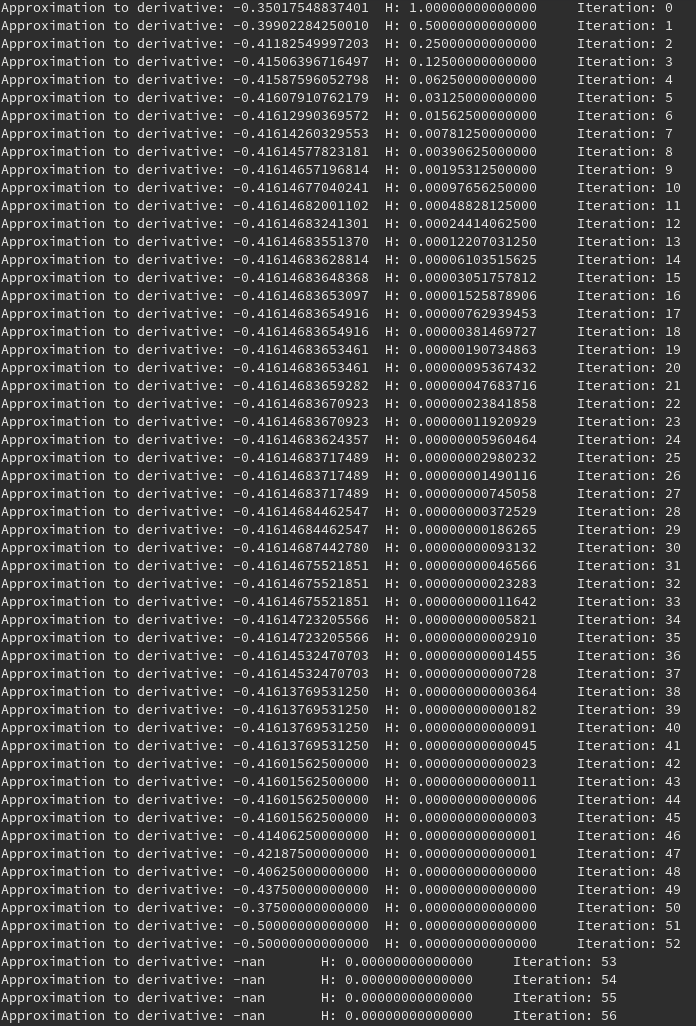
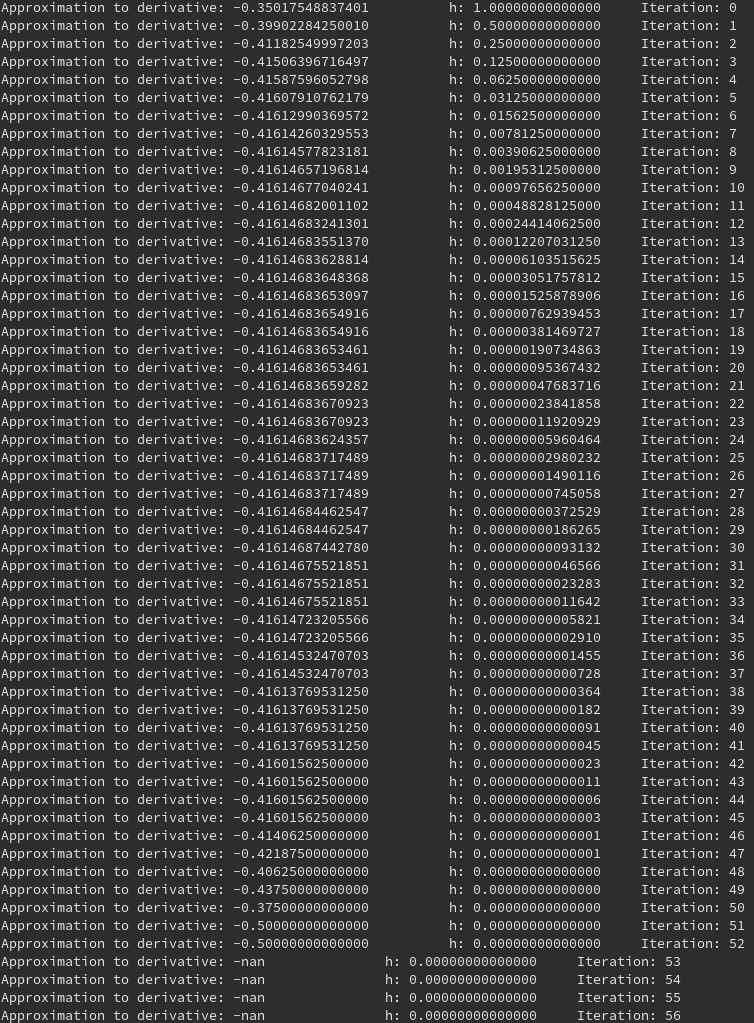
Made changes

Changed region(s): [[0.0, 0.0, 0.9957, 1.0]]

diff --git a/tasks_source/task_sheet_1/task_6/task6.c b/tasks_source/task_sheet_1/task_6/task6.c
@@ -24,7 +24,7 @@ int main()
 	double h = 1;
 	for(int i=0; i<100; i++)
 	{
-		printf("Approximation to derivative: %.14f\tH: %.14f\tIteration: %d\n", calculate_derivative(2, h), h, i);
+		printf("Approximation to derivative: %.14f\t\th: %.14f\tIteration: %d\n", calculate_derivative(2, h), h, i);
 		h = h / 2;
 	}
 

diff --git a/software_manual/software_manual.md b/software_manual/software_manual.md
@@ -19,3 +19,5 @@ As expected, the output gets closer and closer to the real value of the derivati
 A screenshot of the machine output has been included below.
 
 ![Console Output Picture](../images/s1_t6_cmdoutput.png)
+
+As we can see, around the first few iterations, the approximation to the derivative is off by quite a bit. The approximation becomes best around 20 iterations, and then slowly starts to diverge away until eventually becoming unusable around the 53rd iteration. The 21st iteration is where the machine precision starts to affect the output after using the h value in the calculations, and the 53rd iteration is where the h completely disappears out of view due to becoming too small for the double type.
